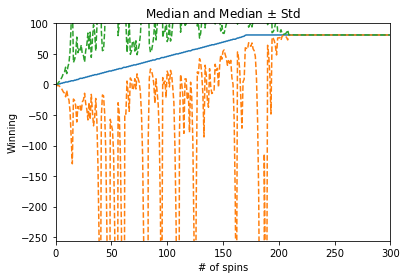
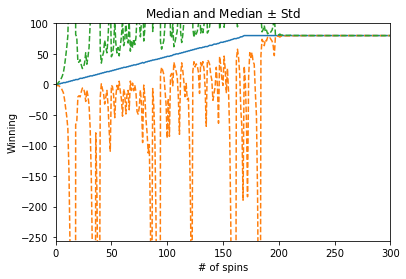
project1 minor change

Changed region(s): [[0.1478, 0.086, 0.9754, 0.8602], [0.1478, 0.086, 0.5616, 0.2867], [0.5025, 0.1434, 0.532, 0.172]]

diff --git a/pr1_martingale/martingale.py b/pr1_martingale/martingale.py
@@ -43,7 +43,7 @@ def gambling_simulator(win_prob,n,stop_amount,winnings,sim_count,total):
         won = get_spin_result(win_prob)
         if won:
             winnings[sim_count][i] = winnings[sim_count][i-1] + bet_amount            
-            if winnings[sim_count][i] > 80:
+            if winnings[sim_count][i] >= 80:
                 winnings[sim_count][i+1:] = winnings[sim_count][i]
                 break
             bet_amount = 1
@@ -83,10 +83,11 @@ def test_code():
     # figure 2: plot mean, mean \pm std of 1000 paths
     winnings = np.zeros((1000,n+1))
     for i in xrange(1000):        
-        gambling_simulator(win_prob,n,stop_amount,winnings,i,-1)        
+        gambling_simulator(win_prob,n,stop_amount,winnings,i,-1)   
     avg = np.mean(winnings,axis=0)    
     std = np.std(winnings,axis=0)    
     mdn = np.median(winnings,axis=0)    
+    print avg[-1]
     plt.plot(x,avg,x,avg-std,'--',x,avg+std,'--')    
     plt.xlim(0, 300)
     plt.ylim(-256, 100) 
